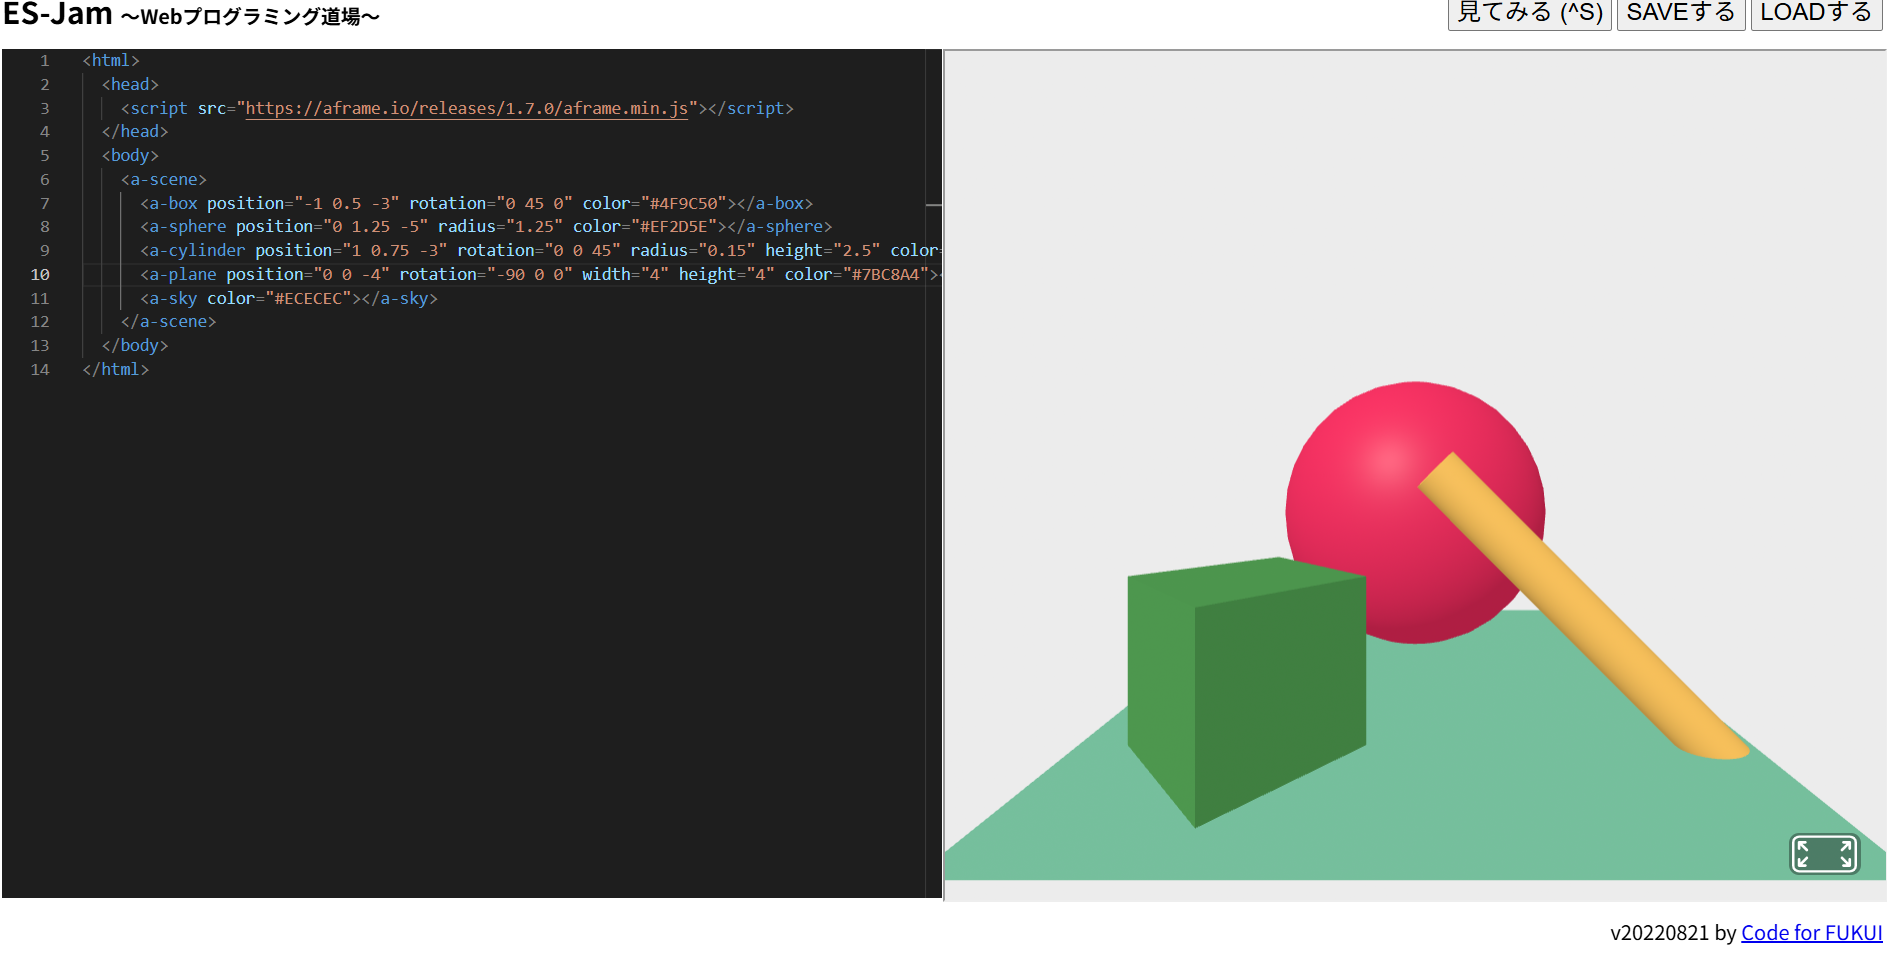
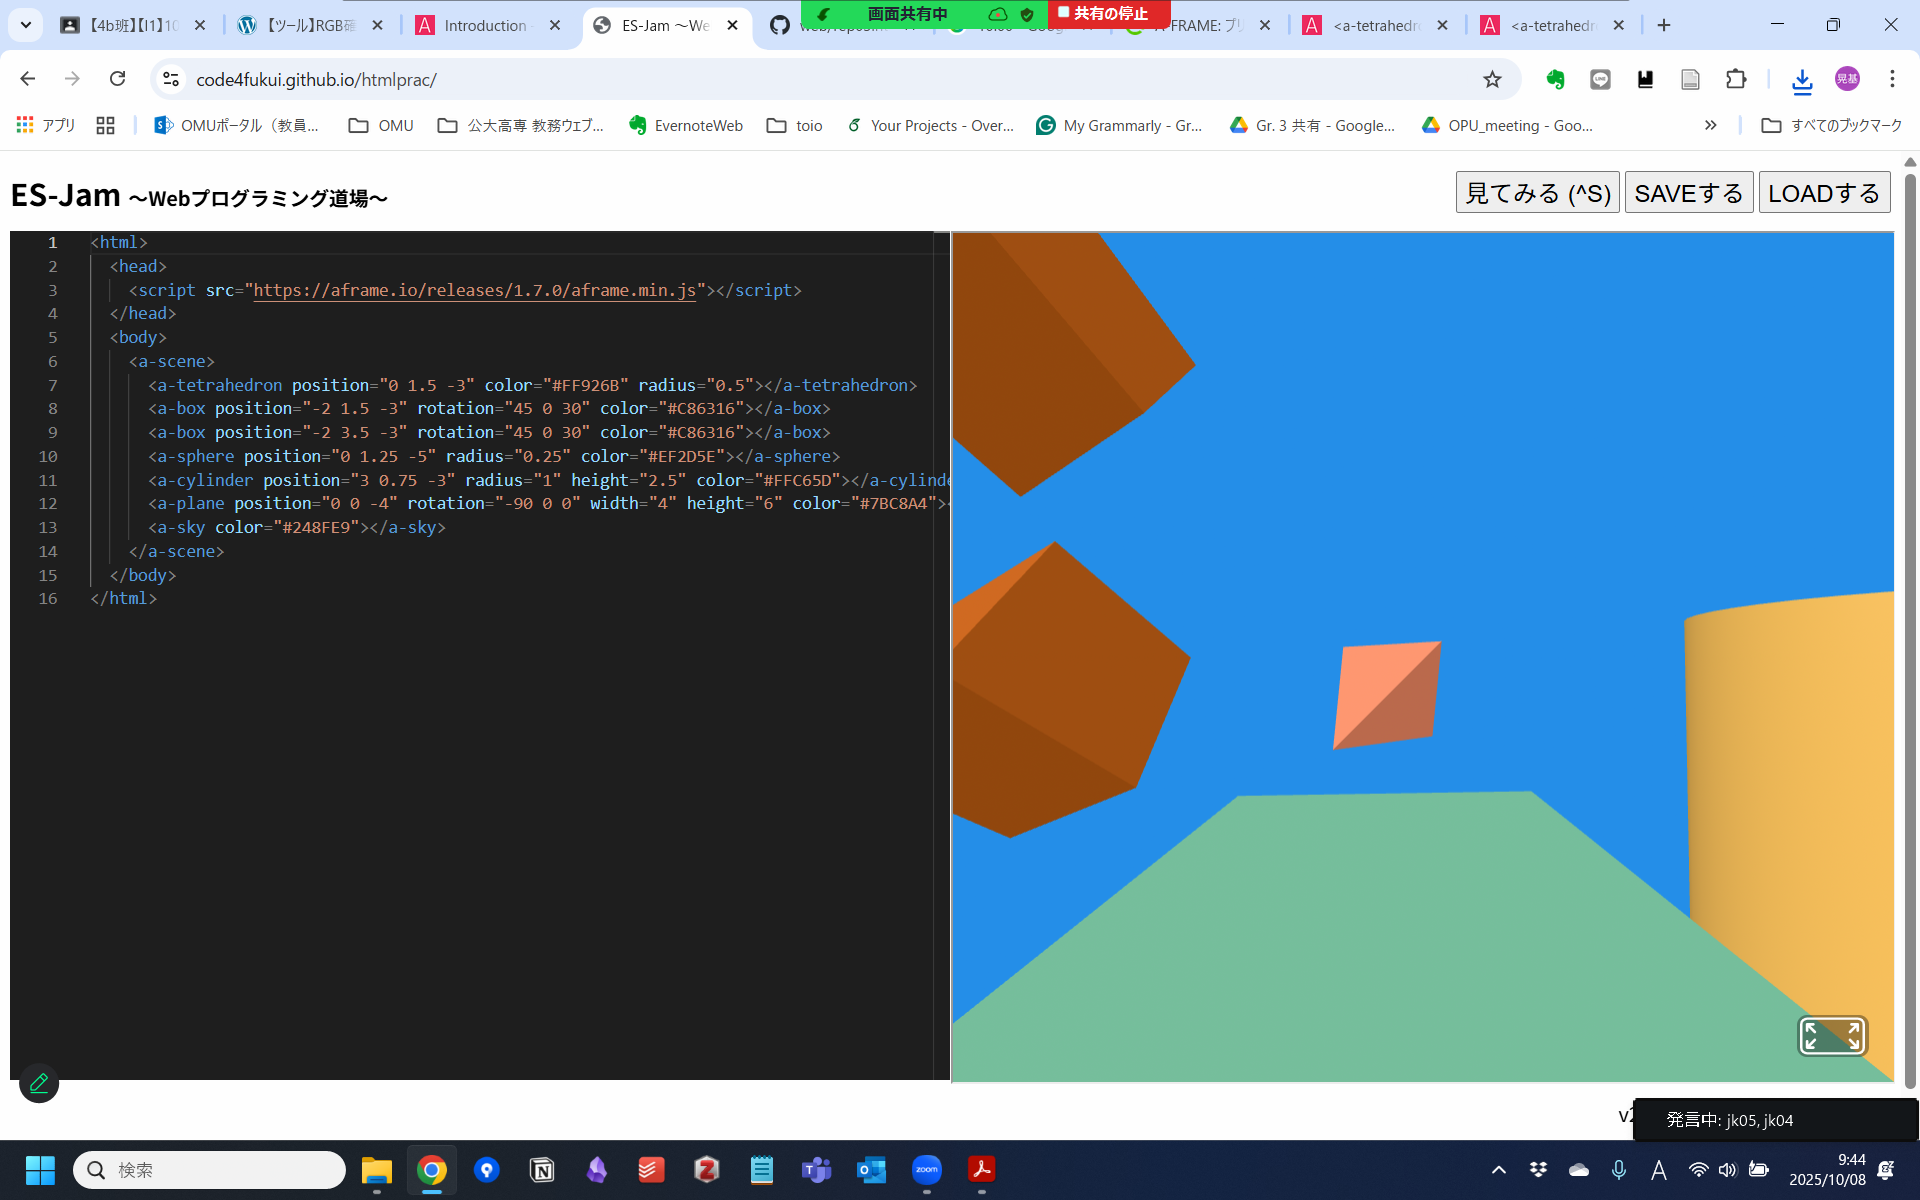
Add files via upload

diff --git a/vr.html b/vr.html
@@ -4,11 +4,13 @@
   </head>
   <body>
     <a-scene>
-      <a-box position="-1 0.5 -3" rotation="0 45 0" color="#4F9C50"></a-box>
-      <a-sphere position="0 1.25 -5" radius="1.25" color="#EF2D5E"></a-sphere>
-      <a-cylinder position="1 0.75 -3" rotation="0 0 45" radius="0.15" height="2.5" color="#FFC65D"></a-cylinder>
-      <a-plane position="0 0 -4" rotation="-90 0 0" width="4" height="4" color="#7BC8A4"></a-plane>
-      <a-sky color="#ECECEC"></a-sky>
+      <a-tetrahedron position="0 1.5 -3" color="#FF926B" radius="0.5"></a-tetrahedron>
+      <a-box position="-2 1.5 -3" rotation="45 0 30" color="#C86316"></a-box>
+      <a-box position="-2 3.5 -3" rotation="45 0 30" color="#C86316"></a-box>
+      <a-sphere position="0 1.25 -5" radius="0.25" color="#EF2D5E"></a-sphere>
+      <a-cylinder position="3 0.75 -3" radius="1" height="2.5" color="#FFC65D"></a-cylinder>
+      <a-plane position="0 0 -4" rotation="-90 0 0" width="4" height="6" color="#7BC8A4"></a-plane>
+      <a-sky color="#248FE9"></a-sky>
     </a-scene>
   </body>
 </html>

diff --git a/dengon.html b/dengon.html
@@ -5,7 +5,7 @@
     <script>
 function 伝言する() {
   if (入力内容.value === "") {
-    alert("内容を入れてください.");
+    alert("内容を入れてください");
   } else {
     伝言エリア.innerText = 入力内容.value;
     alert("伝言をセットしました");
@@ -16,6 +16,6 @@ function 伝言する() {
   <body>
     伝言板
     <p id="伝言エリア">伝言はまだありません</p>
-    <input id="入力内容"><button onclick="伝言する()">セット</button>
+    <input id="入力内容"><button onclick="伝言する();">セット</button>
   </body>
 </html>
